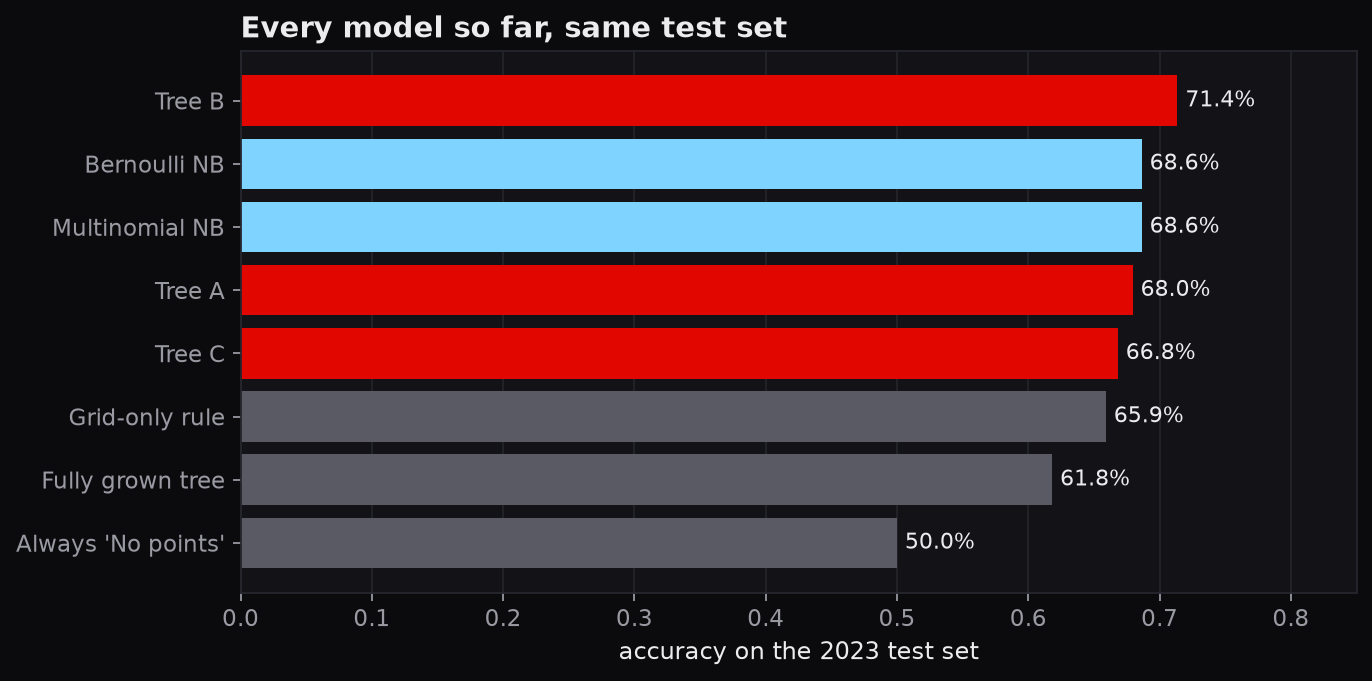
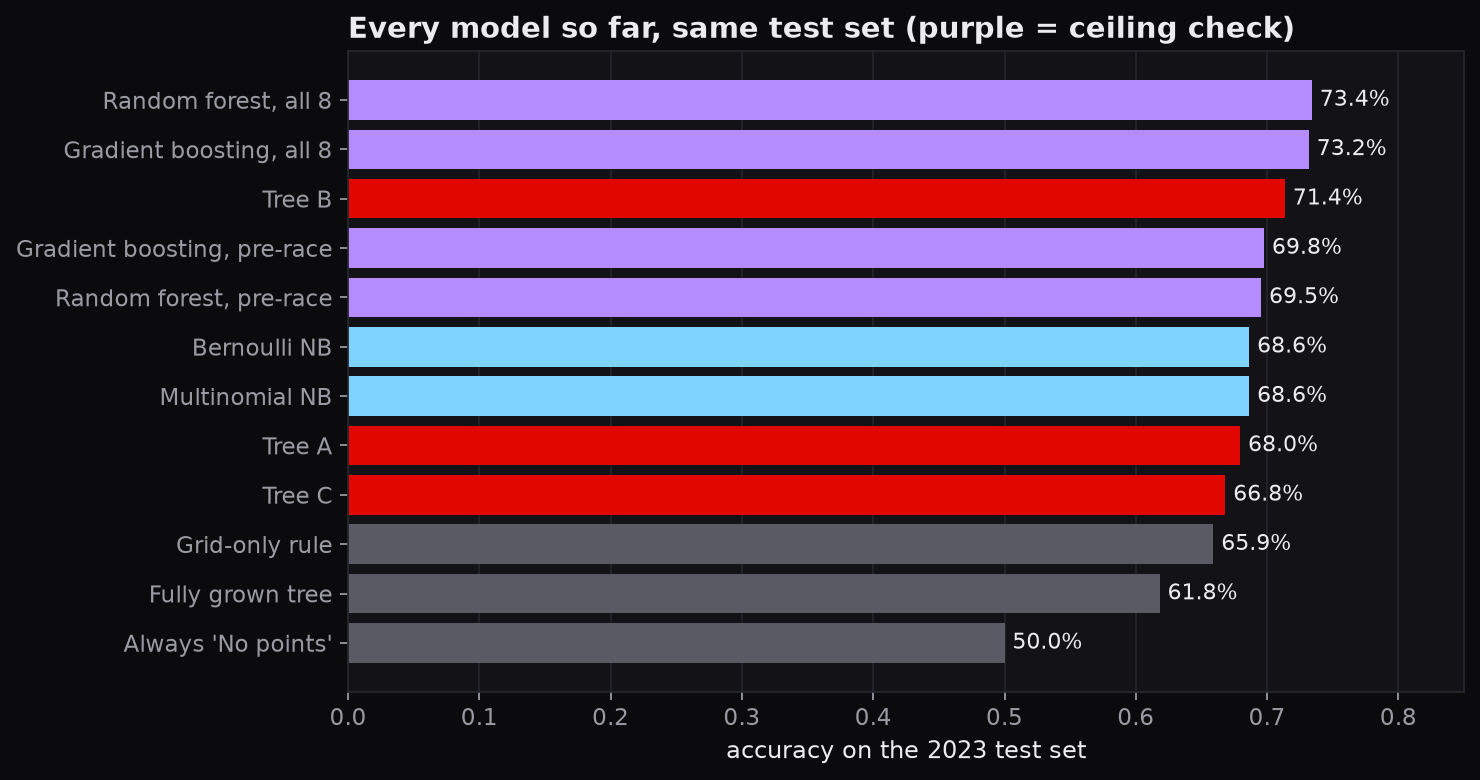
Explain the accuracy ceiling, add two-class models and extra-features test

diff --git a/index.html b/index.html
@@ -635,7 +635,7 @@ print(accuracy_score(y_test, pred))
 print(confusion_matrix(y_test, pred, labels=CLASSES))
 
 probs = mnb.predict_proba(race_X)</pre>
-      <p>To rerun: <code>python code/prep_supervised.py</code> then <code>python code/naive_bayes.py</code>.</p>
+      <p>To rerun: <code>python code/prep_supervised.py</code> then <code>python code/naive_bayes.py</code>. The extra-features test is <code>python code/extra_features.py</code>.</p>
     </div>
 
     <div class="block" id="nb-results">
@@ -644,7 +644,7 @@ probs = mnb.predict_proba(race_X)</pre>
         <div><b>68.6%</b><span>multinomial NB accuracy on 2023</span></div>
         <div><b>68.6%</b><span>Bernoulli NB accuracy</span></div>
         <div><b>65.9%</b><span>"just use the grid" rule</span></div>
-        <div><b>50.0%</b><span>always guessing No points</span></div>
+        <div><b>80.0%</b><span>two-class version (points or not)</span></div>
       </div>
 
       <h4>Accuracy</h4>
@@ -661,6 +661,20 @@ probs = mnb.predict_proba(race_X)</pre>
         <figcaption>Confusion matrices on the 2023 test set. Each cell shows the count and the share of that row. Bernoulli disagrees with multinomial on just five of the 440 drivers.</figcaption>
       </figure>
       <p>Why are multinomial and Bernoulli almost identical? Because of how I built the features. Every row has exactly one bin turned on per feature, so if a driver <em>isn't</em> in grid P1, they must be in one of the other grid bins. The "absent" information Bernoulli uses is already implied by what's present, so the two end up making nearly the same calls. On real text, where most words are missing from most documents, they'd separate a lot more.</p>
+
+      <h4>Is 68.6% actually bad?</h4>
+      <p>My first reaction to 68.6% was that it felt low, so I dug into the mistakes. Three things changed my mind. First, the misses are almost never big ones: <strong>96.6% of predictions are either right or one class off</strong>, and only 1 actual podium out of 66 got called "No points". Second, a lot of the 138 wrong calls weren't really predictable. 26 were retirements, and nothing you know on Saturday tells you an engine is going to blow up. Another 45 were drivers who finished exactly P3/P4 or P10/P11, one place from the edge of a class, where the "wrong" answer was a single overtake away. That leaves 67 real misses out of 440, about 15%. Third, I tried much stronger models on the same pre-race data on the Decision Trees tab. A random forest (500 trees) and gradient boosting both land at about 70%, so NB is already close to the ceiling for this question with this data. I also tried six more pre-race features (team finishing positions, reliability, gap to teammate, how much a driver usually gains on Sundays and how hard the circuit is to pass on) in <a href="code/extra_features.py">code/extra_features.py</a>. They nudged a depth-5 tree up from 66.8% to 68.6% but made the depth-3 tree and Gaussian NB slightly worse, and nothing got past 70%. That's actually a finding in itself: once you know qualifying and the car's form, there just isn't much more to learn before the race.</p>
+      <figure class="m2-fig">
+        <img src="assets/img/m3/nb_error_breakdown.png" alt="Stacked bar splitting 138 wrong predictions into 26 retirements, 45 drivers one place from a class boundary and 67 other misses" loading="lazy">
+        <figcaption>Where multinomial NB's 138 wrong calls come from. Only the red part is a real miss on a driver who finished away from a class boundary.</figcaption>
+      </figure>
+
+      <h4>Asking an easier question: points or not?</h4>
+      <p>Three classes is a tough ask, because the model has to put every driver in the right one of three buckets. So I also ran the simpler version every fan actually cares about: <strong>will this driver score points?</strong> (top 10 or not). It's the same features, the same split and the same models, just with Podium and Points merged into one class. Multinomial NB gets <strong>80.0%</strong> and Bernoulli NB <strong>80.5%</strong>, against 73.6% for "anyone starting in the top 10 scores". It catches 175 of the 220 points finishes and 177 of the 220 non-scores, so it's balanced and not just leaning on one class. The gap over the grid rule (about 6.5 points) is actually bigger than in the three-class version, which tells me the form features help most right around P10, where the car's real pace decides who holds on to the last points.</p>
+      <figure class="m2-fig">
+        <img src="assets/img/m3/nb_two_class.png" alt="Bar chart of two-class accuracy: always No points 50 percent, grid rule 73.6, Bernoulli NB 80.5, multinomial NB 80.0, next to a 2 by 2 confusion matrix" loading="lazy">
+        <figcaption>The two-class version on 2023. Left: accuracy vs the baselines. Right: multinomial NB's confusion matrix.</figcaption>
+      </figure>
 
       <h4>What the model learned</h4>
       <p>NB's whole model is a table of likelihoods, so you can read exactly what it learned. Podiums came from P2-3 (41%) or P1 (24%) and from teams scoring 12+ points a race (51%). No-points finishes mostly came from P16+ (43%) and teams scoring under a point a race (51%). Grid penalties barely matter, since the "none" bin dominates every class.</p>
@@ -681,7 +695,7 @@ probs = mnb.predict_proba(race_X)</pre>
       <h3><span class="section-tag">(e)</span>Conclusions</h3>
       <p>Using only things you'd know before the race (grid slot, penalties and recent form), NB called the outcome for 2023 drivers correctly about 69% of the time, compared to 66% for just going by the grid and 50% for always guessing no points. It's best at the two ends of the field. It caught 71% of podiums and 80% of no-score races, and when it was wrong it was nearly always off by one class. The middle of the points places is where it struggles, which makes sense: that's where the cars are closest and a pit stop, a safety car or a first-lap move decides who gets P8 and who gets P11.</p>
       <p>For my car vs driver question, the likelihood tables say the same thing clustering did. Team form is about as strong a signal as grid position, and driver form mostly repeats it. That's also NB's biggest weakness on F1 data. The features aren't independent, because a fast car means good qualifying, a good grid and good recent form all at once, and NB counts that same evidence several times. That's exactly how it ended up giving Red Bulls starting outside the top ten a better-than-even podium chance in Singapore.</p>
-      <p>So roughly two thirds of a race result is already decided by Saturday night, and the last third is what makes Sundays worth watching. Next I want a model that can handle features that depend on each other, which is what the decision trees on the next tab do.</p>
+      <p>So roughly two thirds of a race result is already decided by Saturday night, and the last third is what makes Sundays worth watching. Next I want a model that can handle features that depend on each other, which is what the decision trees on the next tab do. And if the question is just "will they score?", NB gets it right 80% of the time.</p>
     </div>
   </section>
   <section id="dectrees" class="tab-panel">
@@ -815,10 +829,17 @@ confusion_matrix(y_test, pred, labels=CLASSES)</pre>
       </figure>
 
       <h4>Confusion matrices and accuracy</h4>
-      <p>All three trees caught the same <strong>41 of 66 podiums (62%)</strong>. That's lower than NB's 47, because a top-3 qualifying cut can't see a Red Bull recovering from P6. Where they differ is the other two classes. Tree B gets 183 of 220 no-points right (83%, up from 161 for A), mostly thanks to the retirement split. Tree A is best at Points (97 of 154, 63%). Tree C pushes more Points finishes into No points (61 of them), which is the price of having only 4 leaves.</p>
+      <p>All three trees caught the same <strong>41 of 66 podiums (62%)</strong>. That's lower than NB's 47, because a top-3 qualifying cut can't see a Red Bull recovering from P6. Where they differ is the other two classes. Tree B gets 183 of 220 no-points right (83%, up from 161 for A), mostly thanks to the retirement split. Tree A is best at Points (97 of 154, 63%). Tree C pushes more Points finishes into No points (61 of them), which is the price of having only 4 leaves. Like NB, the trees almost never miss badly. They're right or one class off <strong>97.0% (A), 97.5% (B) and 96.4% (C)</strong> of the time.</p>
       <figure class="m2-fig">
         <img src="assets/img/m3/dt_confusion.png" alt="Three confusion matrices for trees A, B and C with counts and row percentages" loading="lazy">
         <figcaption>Confusion matrices on the 2023 test set. Rows are actual results and columns are predictions.</figcaption>
+      </figure>
+
+      <h4>Tree D: the two-class version</h4>
+      <p>Same as on the NB tab, I also asked the simpler question, <strong>top 10 or not</strong>, with Tree A's settings (Gini, depth 3, pre-race features). This tree is different in an interesting way. The root is still <strong>quali &le; 9.5</strong>, but on the "made Q3" side it now checks <strong>driver form &le; 1.9</strong> first. That branch is small, only 50 drivers made Q3 with driver form under 1.9, and its next split goes the counterintuitive way (lower team form gets predicted Points). With leaves of 33 and 17 drivers, that's the tree fitting noise, not a real pattern. On the other side, a driver outside Q3 still gets predicted Points if the team averages more than 4.55 points a race (a fast car that had a bad Saturday). It scores <strong>79.1%</strong> on 2023 (79.4% on training, so no overfitting) against 73.6% for the grid rule. It caught 182 of the 220 points finishes.</p>
+      <figure class="m2-fig">
+        <a href="assets/img/m3/dt_tree_d_two_class.png" target="_blank" rel="noopener"><img src="assets/img/m3/dt_tree_d_two_class.png" alt="Two-class decision tree D splitting on qualifying position, driver form, team form and grid, next to its 2 by 2 confusion matrix" loading="lazy"></a>
+        <figcaption>Tree D and its confusion matrix. Value lists are [No points, Points]. The odd "grid &le; 20" split catches 3 drivers who started from the pit lane (coded as grid 21). Click for full size.</figcaption>
       </figure>
 
       <h4>What happens if you don't stop</h4>
@@ -839,10 +860,11 @@ confusion_matrix(y_test, pred, labels=CLASSES)</pre>
         <figcaption>Feature importance for each tree. Features a tree didn't use show as 0.</figcaption>
       </figure>
 
-      <h4>Every model so far</h4>
+      <h4>Every model so far, and a ceiling check</h4>
+      <p>To see how close these simple models are to the best you can do with this data, I also ran two much stronger models built out of many trees. A <strong>random forest</strong> averages 500 trees, each grown on a random sample of rows and features. <strong>Gradient boosting</strong> builds 150 small trees, where each one fixes the mistakes of the ones before it. They're not part of the assignment and they're much harder to read, but they're a good way to check the ceiling. On pre-race features only they get <strong>69.5% and 69.8%</strong>, barely above NB (68.6%) and Tree A (68.0%). With all 8 features they get <strong>73.4% and 73.2%</strong>, about 2 points above Tree B. So one readable depth-3 tree gets almost everything a 500-tree forest does. The limit isn't the model, it's how much a race can be predicted from what's known before it starts.</p>
       <figure class="m2-fig">
         <img src="assets/img/m3/dt_scoreboard.png" alt="Bar chart of 2023 test accuracy for every model: Tree B 71.4, Bernoulli and multinomial NB 68.6, Tree A 68.0, Tree C 66.8, grid rule 65.9, fully grown tree 61.8, always No points 50" loading="lazy">
-        <figcaption>All the models on the same 440 driver-races from 2023. Red = trees, blue = Naive Bayes, grey = baselines.</figcaption>
+        <figcaption>All the three-class models on the same 440 driver-races from 2023. Red = my trees, blue = Naive Bayes, grey = baselines, purple = the ceiling check.</figcaption>
       </figure>
     </div>
 
@@ -850,7 +872,7 @@ confusion_matrix(y_test, pred, labels=CLASSES)</pre>
       <h3><span class="section-tag">(e)</span>Conclusions</h3>
       <p>The trees basically wrote down the rules a fan already uses, just with actual cut points. Qualified top 3? Probably a podium. Made Q3? Probably points. Outside Q3 in a team scoring less than about 2 points a race? Probably nothing. Every tree put qualifying at the root, and the smallest tree (just qualifying and team form, 4 leaves) still beat the grid-only rule. That backs up what clustering and PCA showed: Saturday's order and the car's recent pace explain most of a result, and the driver's own form doesn't add much once you know the car.</p>
       <p>The strategy features were the interesting part. Adding them gave the best accuracy (71.4%), but when I looked at why, the useful split was "never got to pit", which is really just a sign of retirement and not clever strategy. Number of stops and pit lane time were basically ignored. That fits what the EDA and clustering showed earlier. Strategy doesn't change <em>which class</em> a driver ends up in very often. It's more about moving a couple of places within the midfield, which a three-class label is too rough to pick up.</p>
-      <p>The biggest lesson was overfitting. A tree with no limits got 100% on 2021-22 and then did worse than the grid rule on 2023, because every season has its own random stuff. The simpler trees held up much better. For this kind of data, a small, readable tree is both easier to trust and actually more accurate. Going forward I want to predict finishing position itself with regression (so a P8 vs P11 difference counts), and to add features that could help explain the middle of the field, like circuit type and weather.</p>
+      <p>The biggest lesson was overfitting. A tree with no limits got 100% on 2021-22 and then did worse than the grid rule on 2023, because every season has its own random stuff. The simpler trees held up much better. For this kind of data, a small, readable tree is both easier to trust and actually more accurate, and the 500-tree random forest only beat Tree B by 2 points. If the question is just "top 10 or not", one depth-3 tree gets it right 79% of the time. Going forward I want to predict finishing position itself with regression (so a P8 vs P11 difference counts), and to add features that could help explain the middle of the field, like circuit type and weather.</p>
     </div>
   </section>
   <section id="svms" class="tab-panel">

diff --git a/code/decision_tree.py b/code/decision_tree.py
@@ -7,6 +7,7 @@ import numpy as np
 import pandas as pd
 from sklearn.metrics import accuracy_score, confusion_matrix
 from sklearn.model_selection import GroupKFold, cross_val_score
+from sklearn.ensemble import GradientBoostingClassifier, RandomForestClassifier
 from sklearn.tree import DecisionTreeClassifier, plot_tree
 
 import plot_style as ps
@@ -195,22 +196,77 @@ ax.set_title("What each tree actually splits on", loc="left")
 ps.save(fig, M3_IMG / "dt_importance.png")
 
 
+# ceiling check: much stronger tree models on the same features
+order = {c: i for i, c in enumerate(CLASSES)}
+for name in "ABC":
+    gap = np.abs(y_test.map(order).values - pd.Series(trees[name]["pred"]).map(order).values)
+    results["trees"][name]["within_one"] = round((gap <= 1).mean(), 4)
+results["ceiling"] = {}
+for label, cols in [("pre-race", PRE_RACE), ("all 8", FEATURES)]:
+    rf = RandomForestClassifier(n_estimators=500, min_samples_leaf=10, random_state=0).fit(train[cols], y_train)
+    gb = GradientBoostingClassifier(max_depth=2, n_estimators=150, learning_rate=0.05, random_state=0).fit(train[cols], y_train)
+    results["ceiling"][f"Random forest, {label}"] = round(rf.score(test[cols], y_test), 4)
+    results["ceiling"][f"Gradient boosting, {label}"] = round(gb.score(test[cols], y_test), 4)
+print("ceiling:", results["ceiling"])
+
+# two class tree: top 10 or not
+two = lambda y: np.where(y == "No points", "No points", "Points")
+tree2 = DecisionTreeClassifier(criterion="gini", max_depth=3, random_state=0).fit(train[PRE_RACE], two(y_train))
+pred2 = tree2.predict(test[PRE_RACE])
+results["two_class"] = {"test_acc": round(accuracy_score(two(y_test), pred2), 4),
+                        "train_acc": round(tree2.score(train[PRE_RACE], two(y_train)), 4),
+                        "cm": confusion_matrix(two(y_test), pred2, labels=["Points", "No points"]).tolist()}
+print("two class tree:", results["two_class"])
+(M3_DATA / "dt_results.json").write_text(json.dumps(results, indent=1, default=float))
+
+fig, axes = plt.subplots(1, 2, figsize=(17, 5.5), gridspec_kw={"width_ratios": [2.6, 1]})
+arts = plot_tree(tree2, feature_names=[NICE[c] for c in PRE_RACE], class_names=list(tree2.classes_), impurity=True,
+                 rounded=True, fontsize=9, ax=axes[0], precision=2)
+for a in arts:
+    cls = a.get_text().split("class = ")[-1].strip()
+    if a.get_bbox_patch() is not None:
+        a.get_bbox_patch().set_facecolor(CLASS_COLORS.get(cls, ps.PANEL))
+        a.get_bbox_patch().set_edgecolor(ps.BG)
+        a.set_color("black")
+    if a.arrow_patch is not None:
+        a.arrow_patch.set_color(ps.DIM)
+axes[0].set_title("Tree D: Gini, max depth 3, two classes (Points = top 10)", loc="left")
+ax = axes[1]
+cm = np.array(results["two_class"]["cm"])
+rec = cm / cm.sum(axis=1, keepdims=True)
+ax.imshow(rec, cmap="magma", vmin=0, vmax=1)
+for i in range(2):
+    for j in range(2):
+        ax.text(j, i, f"{cm[i, j]}\n{rec[i, j]:.0%}", ha="center", va="center", fontsize=11,
+                color="black" if rec[i, j] > 0.55 else "white")
+ax.set_xticks([0, 1], ["Points", "No points"])
+ax.set_yticks([0, 1], ["Points", "No points"])
+ax.set_xlabel("predicted")
+ax.set_ylabel("actual")
+ax.set_title(f"Tree D on 2023 ({results['two_class']['test_acc']:.1%})", loc="left", fontsize=12)
+ax.grid(False)
+fig.tight_layout()
+ps.save(fig, M3_IMG / "dt_tree_d_two_class.png")
+
+
 nb = json.loads((M3_DATA / "nb_results.json").read_text())["accuracy"]
 board = {"Always 'No points'": nb["Always 'No points'"], "Grid-only rule": nb["Grid-only rule"],
          "Multinomial NB": nb["Multinomial NB"], "Bernoulli NB": nb["Bernoulli NB"],
          "Fully grown tree": results["full_tree"]["test_acc"]}
 for n in "ABC":
     board[f"Tree {n}"] = results["trees"][n]["test_acc"]
+board.update(results["ceiling"])
 board = dict(sorted(board.items(), key=lambda kv: kv[1]))
-fig, ax = plt.subplots(figsize=(9, 4.4))
-cols = [ps.RED if k.startswith("Tree") else ps.ICE if "NB" in k else "#5a5a64" for k in board]
+fig, ax = plt.subplots(figsize=(9, 5.2))
+cols = [ps.RED if k.startswith("Tree") else ps.ICE if "NB" in k else ps.VIOLET if k in results["ceiling"] else "#5a5a64"
+        for k in board]
 ax.barh(list(board), list(board.values()), color=cols)
 for i, v in enumerate(board.values()):
     ax.text(v + 0.006, i, f"{v:.1%}", va="center", fontsize=10)
 ax.set_xlim(0, 0.85)
 ax.set_xlabel("accuracy on the 2023 test set")
 ax.grid(axis="y", visible=False)
-ax.set_title("Every model so far, same test set", loc="left")
+ax.set_title("Every model so far, same test set (purple = ceiling check)", loc="left")
 ps.save(fig, M3_IMG / "dt_scoreboard.png")
 
 

diff --git a/code/naive_bayes.py b/code/naive_bayes.py
@@ -9,7 +9,7 @@ from sklearn.metrics import accuracy_score, classification_report, confusion_mat
 from sklearn.naive_bayes import BernoulliNB, GaussianNB, MultinomialNB
 
 import plot_style as ps
-from paths import M3_DATA, M3_IMG
+from paths import CLEANED_CSV, M3_DATA, M3_IMG
 from prep_supervised import CLASS_COLORS, CLASSES, PRE_RACE
 from sample_format import table_rows
 
@@ -202,3 +202,82 @@ for ax, vals, title, col in zip(axes, [counts, [min(c, 1) for c in counts]],
 fig.suptitle('Team radio: "Box box, box this lap, tyres are gone"', x=0.01, ha="left", fontsize=13, fontweight="bold")
 fig.tight_layout()
 ps.save(fig, M3_IMG / "nb_concept_mn_vs_bern.png")
+
+
+# how far off are the misses
+order = {c: i for i, c in enumerate(CLASSES)}
+gap = np.abs(y_test.map(order).values - pd.Series(preds["Multinomial NB"]).map(order).values)
+results["within_one"] = {"Multinomial NB": round((gap <= 1).mean(), 4),
+                         "Bernoulli NB": round((np.abs(y_test.map(order).values - pd.Series(preds["Bernoulli NB"]).map(order).values) <= 1).mean(), 4)}
+print("within one class:", results["within_one"])
+
+clean = pd.read_csv(CLEANED_CSV)[["season", "round", "driver_code", "did_not_finish", "final_position_num"]]
+info = test.merge(clean, on=["season", "round", "driver_code"], how="left")
+wrong = preds["Multinomial NB"] != y_test.values
+dnf = wrong & info["did_not_finish"].values
+edge = wrong & ~info["did_not_finish"].values & info["final_position_num"].isin([3, 4, 10, 11]).values
+other = wrong & ~dnf & ~edge
+results["errors"] = {"total": int(wrong.sum()), "dnf": int(dnf.sum()), "boundary": int(edge.sum()), "other": int(other.sum())}
+print("errors:", results["errors"])
+
+fig, ax = plt.subplots(figsize=(10, 2.6))
+parts = [("Retired (can't be seen pre-race)", dnf.sum(), "#6b6b75"),
+         ("Finished P3/P4 or P10/P11 (one place off)", edge.sum(), ps.AMBER),
+         ("Everything else", other.sum(), ps.RED)]
+left = 0
+for label, n, col in parts:
+    ax.barh([0], [n], left=left, color=col)
+    ax.text(left + n / 2, 0, str(n), ha="center", va="center", color="black", fontsize=11, fontweight="bold")
+    left += n
+handles = [plt.Rectangle((0, 0), 1, 1, color=c) for _, _, c in parts]
+ax.legend(handles, [p[0] for p in parts], ncol=3, loc="upper center", bbox_to_anchor=(0.5, -0.15), frameon=False, fontsize=9)
+ax.set_xlim(0, left)
+ax.set_yticks([])
+ax.set_xticks([])
+ax.grid(False)
+ax.set_title(f"The {wrong.sum()} wrong calls by multinomial NB, broken down", loc="left")
+ps.save(fig, M3_IMG / "nb_error_breakdown.png")
+
+
+# two class version: top 10 or not
+two = lambda y: np.where(y == "No points", "No points", "Points")
+y2_train = two(y_train)
+y2_test = two(y_test)
+mnb2 = MultinomialNB(alpha=1.0).fit(X_train, y2_train)
+bnb2 = BernoulliNB(alpha=1.0).fit(X_train, y2_train)
+grid2 = np.where(test["grid"] <= 10, "Points", "No points")
+results["two_class"] = {"Multinomial NB": round(mnb2.score(X_test, y2_test), 4),
+                        "Bernoulli NB": round(bnb2.score(X_test, y2_test), 4),
+                        "Grid-only rule": round((grid2 == y2_test).mean(), 4),
+                        "Always 'No points'": round((y2_test == "No points").mean(), 4),
+                        "mnb_cm": confusion_matrix(y2_test, mnb2.predict(X_test), labels=["Points", "No points"]).tolist()}
+print("two class:", results["two_class"])
+(M3_DATA / "nb_results.json").write_text(json.dumps(results, indent=1))
+
+fig, axes = plt.subplots(1, 2, figsize=(12, 4), gridspec_kw={"width_ratios": [1.3, 1]})
+ax = axes[0]
+names = ["Always 'No points'", "Grid-only rule", "Bernoulli NB", "Multinomial NB"]
+vals = [results["two_class"][n] for n in names]
+ax.barh(names, vals, color=["#4a4a55", "#6b6b75", ps.ICE, ps.RED])
+for i, v in enumerate(vals):
+    ax.text(v + 0.01, i, f"{v:.1%}", va="center", fontsize=10)
+ax.set_xlim(0, 1)
+ax.set_xlabel("accuracy on 2023")
+ax.grid(axis="y", visible=False)
+ax.set_title("Two classes: will they score points?", loc="left", fontsize=12)
+ax = axes[1]
+cm = np.array(results["two_class"]["mnb_cm"])
+rec = cm / cm.sum(axis=1, keepdims=True)
+ax.imshow(rec, cmap="magma", vmin=0, vmax=1)
+for i in range(2):
+    for j in range(2):
+        ax.text(j, i, f"{cm[i, j]}\n{rec[i, j]:.0%}", ha="center", va="center", fontsize=11,
+                color="black" if rec[i, j] > 0.55 else "white")
+ax.set_xticks([0, 1], ["Points", "No points"])
+ax.set_yticks([0, 1], ["Points", "No points"])
+ax.set_xlabel("predicted")
+ax.set_ylabel("actual")
+ax.set_title("Multinomial NB, 2 classes", loc="left", fontsize=12)
+ax.grid(False)
+fig.tight_layout()
+ps.save(fig, M3_IMG / "nb_two_class.png")

diff --git a/code/extra_features.py b/code/extra_features.py
@@ -1,0 +1,62 @@
+# does adding more pre-race features help? (short answer: no)
+# run prep_supervised.py first
+
+import json
+
+import pandas as pd
+from sklearn.model_selection import GroupKFold, cross_val_score
+from sklearn.naive_bayes import GaussianNB
+from sklearn.tree import DecisionTreeClassifier
+
+from paths import CLEANED_CSV, M3_DATA
+from prep_supervised import PRE_RACE
+
+
+def past_mean(s, n):
+    return s.shift(1).rolling(n, min_periods=1).mean()
+
+
+c = pd.read_csv(CLEANED_CSV).sort_values(["season", "round", "final_position_num"])
+c["race_idx"] = c.groupby(["season", "round"]).ngroup()
+c["pos"] = c["final_position_num"].where(~c["did_not_finish"], 20)
+c["gain"] = (c["grid"] - c["final_position_num"]).where(~c["did_not_finish"])
+
+team = c.groupby(["race_idx", "constructor_name"]).agg(tpos=("pos", "mean"), tdnf=("did_not_finish", "mean")).reset_index()
+team["team_pos_form"] = team.groupby("constructor_name")["tpos"].transform(lambda s: past_mean(s, 5))
+team["team_dnf_rate"] = team.groupby("constructor_name")["tdnf"].transform(lambda s: past_mean(s, 10))
+c = c.merge(team[["race_idx", "constructor_name", "team_pos_form", "team_dnf_rate"]], on=["race_idx", "constructor_name"])
+
+c["driver_pos_form"] = c.groupby("driver_id")["pos"].transform(lambda s: past_mean(s, 5))
+c["driver_gain_form"] = c.groupby("driver_id")["gain"].transform(lambda s: s.shift(1).rolling(10, min_periods=1).mean())
+q = c["quali_position"].fillna(c["grid"])
+c["teammate_gap"] = q - (q.groupby([c["race_idx"], c["constructor_name"]]).transform("sum") - q)
+
+# how much the order shuffles at a circuit, only using earlier seasons
+c["abs_change"] = (c["grid"] - c["final_position_num"]).abs().where(~c["did_not_finish"])
+circ = c.groupby(["circuit_id", "season"])["abs_change"].mean().rename("m").reset_index().sort_values("season")
+circ["circuit_shuffle"] = circ.groupby("circuit_id")["m"].transform(lambda s: s.shift(1).expanding().mean())
+c = c.merge(circ[["circuit_id", "season", "circuit_shuffle"]], on=["circuit_id", "season"])
+c["circuit_shuffle"] = c["circuit_shuffle"].fillna(c.loc[c["season"] == 2021, "abs_change"].mean())
+
+NEW = ["team_pos_form", "team_dnf_rate", "driver_pos_form", "driver_gain_form", "teammate_gap", "circuit_shuffle"]
+d = pd.read_csv(M3_DATA / "labeled_data.csv").merge(c[["season", "round", "driver_code"] + NEW],
+                                                    on=["season", "round", "driver_code"])
+d["driver_pos_form"] = d["driver_pos_form"].fillna(d["team_pos_form"])
+d["driver_gain_form"] = d["driver_gain_form"].fillna(0)
+
+train = d[d["season"] < 2023]
+test = d[d["season"] == 2023]
+races = train["season"].astype(str) + "-" + train["round"].astype(str)
+
+out = {}
+models = {"tree depth 3": lambda: DecisionTreeClassifier(max_depth=3, min_samples_leaf=20, random_state=0),
+          "tree depth 5": lambda: DecisionTreeClassifier(max_depth=5, min_samples_leaf=20, random_state=0),
+          "gaussian NB": lambda: GaussianNB()}
+for name, make in models.items():
+    for label, cols in [("original 5", PRE_RACE), ("original + 6 new", PRE_RACE + NEW)]:
+        m = make()
+        cv = cross_val_score(m, train[cols], train["result"], groups=races, cv=GroupKFold(5)).mean()
+        acc = m.fit(train[cols], train["result"]).score(test[cols], test["result"])
+        out[f"{name}, {label}"] = {"cv": round(cv, 4), "test": round(acc, 4)}
+        print(f"{name}, {label}: cv {cv:.3f}  test {acc:.3f}")
+(M3_DATA / "extra_features_results.json").write_text(json.dumps(out, indent=1))

diff --git a/README.md b/README.md
@@ -55,6 +55,7 @@ python code/pca.py                      # PCA on driver-races with weather data
 python code/prep_supervised.py          # label + form features + season split
 python code/naive_bayes.py              # multinomial + bernoulli NB
 python code/decision_tree.py            # three trees + pruning + overfitting check
+python code/extra_features.py           # do 6 more pre-race features help?
 ```
 
 The raw pulls are already committed, so you only need `build_dataset.py` onward to regenerate what the site uses.
